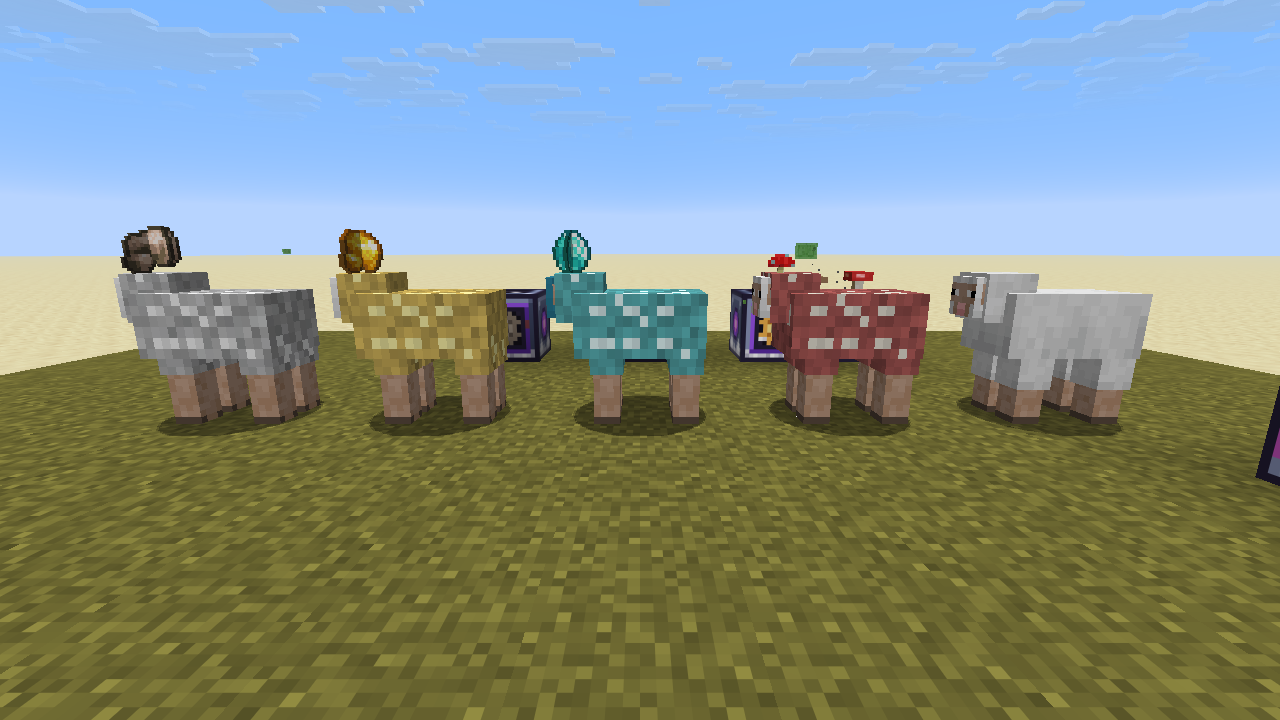
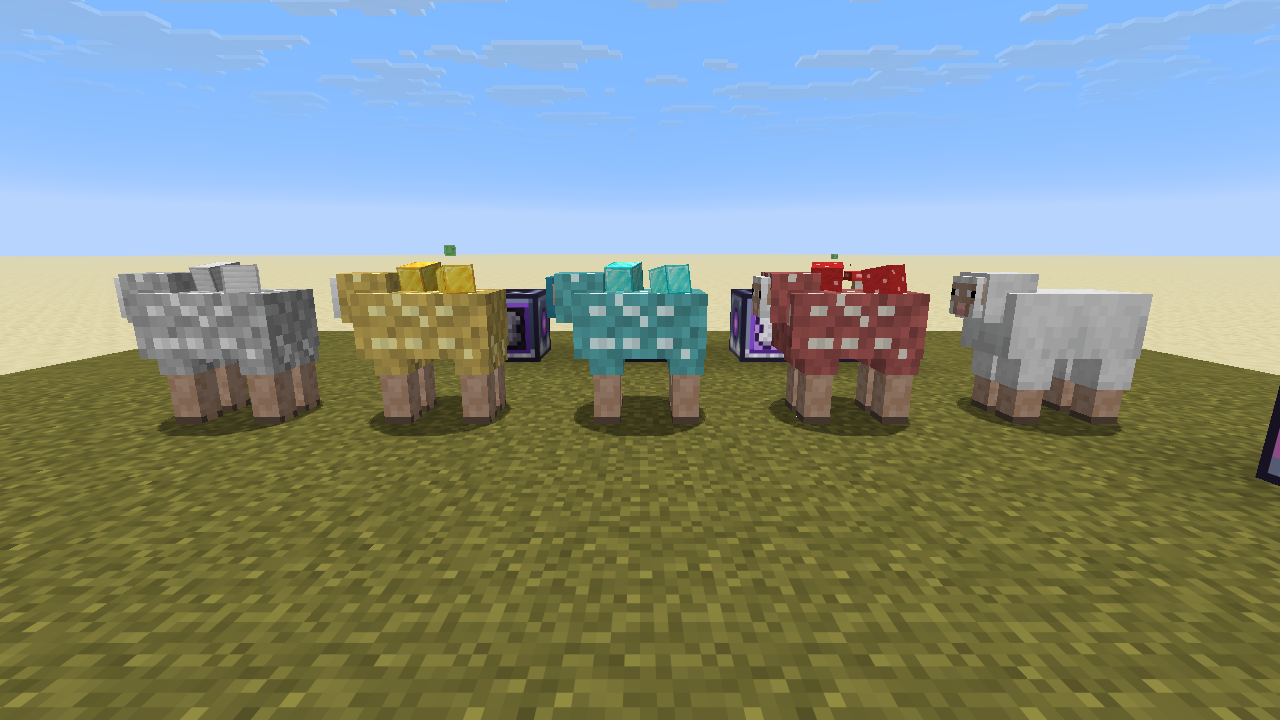
Grow small resource blocks on infused sheep again
Reverts the mooshroom-style flat items: every infused sheep shows the
original cluster of small blocks in its fleece. Since sheep are now fed
ingots and gems, the growth defaults to the storage block of the feeding
item or separator output (Iron Ingot -> Block of Iron, Lapis Lazuli ->
Block of Lapis, Redstone -> Block of Redstone), or the item itself when
it is already a block (Cobblestone, Oak Log). Netherite grows Ancient
Debris again. A new GameTest pins the block for each built-in resource.

Claude-Session: https://claude.ai/code/session_012iurxobutw9xMP3SqHHLFE

diff --git a/src/main/java/com/jax3/barelyfunctionalcontraptions/sheep/client/InfusedWoolLayer.java b/src/main/java/com/jax3/barelyfunctionalcontraptions/sheep/client/InfusedWoolLayer.java
@@ -12,7 +12,6 @@ import net.minecraft.client.model.animal.sheep.SheepModel;
 import net.minecraft.client.model.geom.EntityModelSet;
 import net.minecraft.client.model.geom.ModelLayers;
 import net.minecraft.client.renderer.SubmitNodeCollector;
-import net.minecraft.client.renderer.entity.LivingEntityRenderer;
 import net.minecraft.client.renderer.entity.RenderLayerParent;
 import net.minecraft.client.renderer.entity.layers.RenderLayer;
 import net.minecraft.client.renderer.entity.state.SheepRenderState;
@@ -29,8 +28,8 @@ import net.minecraft.world.item.ItemDisplayContext;
 import net.minecraft.world.item.ItemStack;
 
 /**
- * Renders resource-infused wool on sheep, and the resource's item growing out of it the way mushrooms grow on a
- * mooshroom.
+ * Renders resource-infused wool on sheep, with small blocks of the resource (Block of Iron, Block of Diamond...)
+ * growing out of the fleece.
  *
  * <p>A render-state modifier ({@link #extract}) runs after vanilla extraction: for infused sheep that have wool it
  * stores the colours in the render state and marks the state as sheared so the vanilla wool layer is skipped. This
@@ -51,29 +50,10 @@ public class InfusedWoolLayer extends RenderLayer<SheepRenderState, SheepModel> 
     }
 
     /**
-     * What to draw: wool colours ({@code accent} is 0 when the sparkle overlay is disabled), the resource item that
-     * sprouts from the fleece, whether it is a flat 2D item (mooshroom style) or a block (clustered blocks), and how
-     * many are showing.
+     * What to draw: wool colours ({@code accent} is 0 when the sparkle overlay is disabled), the resource block that
+     * sprouts from the fleece, and how many of them are showing.
      */
-    public record Colors(int wool, int accent, ItemStackRenderState growth, boolean flat, int growthCount) {}
-
-    // ---------------------------------------------------------------- flat 2D items: mooshroom style
-
-    /**
-     * Where flat items sprout, like a mooshroom's mushrooms: two on the back and one on the head. Positions are in
-     * sheep model space (blocks, +Y down); yaws match the mooshroom's mushrooms. Ordered so the head item stays
-     * longest as the infusion is sheared away.
-     */
-    private record Spot(boolean onHead, float x, float y, float z, float yaw) {}
-    /** Top of the fleece (body top at 6 px minus the fur's 1.75 px inflation), in blocks, +Y down. */
-    private static final float FLEECE_TOP = 4.25F / 16.0F;
-    private static final Spot[] ITEM_SPOTS = {
-            new Spot(true, 0.0F, -4.6F / 16.0F, -0.15F, -78.0F),  // head, on top of the head wool
-            new Spot(false, 0.14F, FLEECE_TOP, 0.42F, -48.0F),     // back, rear right (the mooshroom's first mushroom)
-            new Spot(false, -0.12F, FLEECE_TOP, -0.1F, -6.0F),     // back, front left (its second, 42 - 48 degrees)
-    };
-    /** Size of a flat item sprite (a mooshroom mushroom is a full block; sheep are smaller). */
-    private static final float ITEM_SCALE = 0.5F;
+    public record Colors(int wool, int accent, ItemStackRenderState growth, int growthCount) {}
 
     // ---------------------------------------------------------------- blocks: small blocks clustered in the fleece
 
@@ -105,29 +85,19 @@ public class InfusedWoolLayer extends RenderLayer<SheepRenderState, SheepModel> 
         int accent = ModConfigs.getBool(ModConfigs.CLIENT.showSheepSparkleOverlay) ? ARGB.opaque(resource.get().accentColor()) : 0;
 
         ItemStackRenderState growth = new ItemStackRenderState();
-        boolean flat = false;
         int count = 0;
         if (ModConfigs.getBool(ModConfigs.CLIENT.showResourceGrowths)) {
             ItemStack stack = resource.get().growthStack();
             if (!stack.isEmpty()) {
-                var resolver = Minecraft.getInstance().getItemModelResolver();
-                // NONE: the bare item model, one block across and centred, like the mooshroom's block model.
-                resolver.updateForTopItem(growth, stack, ItemDisplayContext.NONE, sheep.level(), sheep, sheep.getId());
-                // Flat 2D items (generated sprites) are not lit like blocks; anything block-shaped is.
-                flat = !growth.usesBlockLight();
-                if (!flat) {
-                    // Blocks keep the original look, which uses the item-frame (FIXED) transform.
-                    resolver.updateForTopItem(growth, stack, ItemDisplayContext.FIXED, sheep.level(), sheep, sheep.getId());
-                }
-                // More growths while the infusion is fresh; they drop off as it is sheared away.
-                int spots = flat ? ITEM_SPOTS.length : BLOCK_SPOTS.length;
-                int min = flat ? 1 : 2;
+                // The item-frame (FIXED) transform: a block sits as a small cube.
+                Minecraft.getInstance().getItemModelResolver().updateForTopItem(growth, stack, ItemDisplayContext.FIXED, sheep.level(), sheep, sheep.getId());
+                // More blocks while the infusion is fresh; they drop off as it is sheared away.
                 int uses = SheepInfusionEvents.getInfusion(sheep).usesRemaining();
                 int max = resource.get().effectiveInfusionUses();
-                count = uses < 0 || max <= 0 ? spots : Mth.clamp(Mth.ceil(spots * (float) uses / max), min, spots);
+                count = uses < 0 || max <= 0 ? BLOCK_SPOTS.length : Mth.clamp(Mth.ceil(BLOCK_SPOTS.length * (float) uses / max), 2, BLOCK_SPOTS.length);
             }
         }
-        state.setRenderData(INFUSED_WOOL, new Colors(wool, accent, growth, flat, count));
+        state.setRenderData(INFUSED_WOOL, new Colors(wool, accent, growth, count));
         state.isSheared = true; // hides the vanilla wool layer; the undercoat layer is unaffected
     }
 
@@ -140,33 +110,7 @@ public class InfusedWoolLayer extends RenderLayer<SheepRenderState, SheepModel> 
             coloredCutoutModelCopyLayerRender(model, ACCENT_TEXTURE, poseStack, collector, lightCoords, state, colors.accent(), 2);
         }
         if (state.isInvisible || colors.growthCount() <= 0 || colors.growth().isEmpty()) return;
-        if (colors.flat()) {
-            submitItems(poseStack, collector, lightCoords, state, colors);
-        } else {
-            submitBlocks(poseStack, collector, lightCoords, state, colors);
-        }
-    }
-
-    /**
-     * Flat items, drawn the way MushroomCowMushroomLayer draws mushrooms: each sprite twice at right angles (the
-     * mooshroom's crossed-plant look) so it reads as a solid object from every side.
-     */
-    private void submitItems(PoseStack poseStack, SubmitNodeCollector collector, int lightCoords, SheepRenderState state, Colors colors) {
-        int overlay = LivingEntityRenderer.getOverlayCoords(state, 0.0F); // red flash when hurt, as on the mooshroom
-        for (int i = 0; i < colors.growthCount(); i++) {
-            Spot spot = ITEM_SPOTS[i];
-            poseStack.pushPose();
-            getParentModel().root().translateAndRotate(poseStack);
-            if (spot.onHead()) getParentModel().root().getChild("head").translateAndRotate(poseStack);
-            // Stand the sprite on the surface: its centre sits half its height above it (+Y is down here).
-            poseStack.translate(spot.x(), spot.y() - ITEM_SCALE * 0.42F, spot.z());
-            poseStack.rotateDegrees(Axis.YP, spot.yaw());
-            poseStack.scale(-ITEM_SCALE, -ITEM_SCALE, ITEM_SCALE);
-            colors.growth().submit(poseStack, collector, lightCoords, overlay, state.outlineColor);
-            poseStack.rotateDegrees(Axis.YP, 90.0F);
-            colors.growth().submit(poseStack, collector, lightCoords, overlay, state.outlineColor);
-            poseStack.popPose();
-        }
+        submitBlocks(poseStack, collector, lightCoords, state, colors);
     }
 
     /** Blocks: little blocks of the resource sprouting from the fleece (the original look). */

diff --git a/src/main/java/com/jax3/barelyfunctionalcontraptions/sheep/resource/SheepResource.java b/src/main/java/com/jax3/barelyfunctionalcontraptions/sheep/resource/SheepResource.java
@@ -40,7 +40,7 @@ import net.minecraft.world.item.crafting.Ingredient;
  * @param woolDropCount infused wool dropped per shearing
  * @param infusionUses  number of shearings one feeding lasts (before the global multiplier)
  * @param separator     how the Mechanical Separator processes this resource's wool
- * @param growthItem    optional item shown growing out of the fleece; defaults to the separator output, then the feeding item
+ * @param growthItem    optional item shown growing out of the fleece; defaults to the storage block of the feeding item or output
  */
 public record SheepResource(
         Identifier id,
@@ -131,15 +131,44 @@ public record SheepResource(
         return Math.max(1, (int) Math.round(base * mult));
     }
 
-    /** Example item to show for the feeding input (first matching item). */
     /**
-     * The physical item that sprouts from an infused sheep's fleece, mooshroom style: {@code growth_item} if set,
-     * else the separator's primary output (Raw Iron, Diamond, Red Mushroom...), else the first feeding item.
+     * What grows out of an infused sheep's fleece, as a cluster of small blocks: {@code growth_item} if set, else the
+     * storage block of the feeding item or the separator output (Iron Ingot -> Block of Iron, Lapis Lazuli -> Block of
+     * Lapis, Raw Iron -> Block of Raw Iron...), else the feeding item or output itself if it is a block (Cobblestone,
+     * Oak Log), else the first feeding item.
      */
     public ItemStack growthStack() {
-        return growthItem.or(separator::primaryOutput).map(ItemStackTemplate::create)
-                .map(stack -> stack.copyWithCount(1))
-                .orElseGet(() -> feedingItem.items().findFirst().map(h -> new ItemStack(h)).orElse(ItemStack.EMPTY));
+        if (growthItem.isPresent()) return growthItem.get().create().copyWithCount(1);
+        Optional<Item> feeding = feedingItem.items().findFirst().map(Holder::value);
+        Optional<Item> output = separator.primaryOutput().map(t -> t.create().getItem());
+        for (Optional<Item> candidate : List.of(feeding, output)) {
+            Optional<Item> block = candidate.flatMap(SheepResource::blockForm);
+            if (block.isPresent()) return new ItemStack(block.get());
+        }
+        return feeding.or(() -> output).map(ItemStack::new).orElse(ItemStack.EMPTY);
+    }
+
+    /** Suffixes dropped when looking for an item's storage block ({@code copper_ingot -> copper_block}). */
+    private static final List<String> BLOCK_SUFFIXES = List.of("_ingot", "_gem", "_dust", "_lazuli", "_scrap", "_ball", "_shard", "_crystal");
+    private static final java.util.Map<Item, Optional<Item>> BLOCK_FORMS = new java.util.concurrent.ConcurrentHashMap<>();
+
+    /** The item's {@code <name>_block} storage block if one exists, else the item itself if it places a block. */
+    public static Optional<Item> blockForm(Item item) {
+        return BLOCK_FORMS.computeIfAbsent(item, i -> {
+            Identifier id = net.minecraft.core.registries.BuiltInRegistries.ITEM.getKey(i);
+            java.util.List<String> names = new java.util.ArrayList<>();
+            names.add(id.getPath() + "_block");
+            for (String suffix : BLOCK_SUFFIXES) {
+                if (id.getPath().endsWith(suffix)) names.add(id.getPath().substring(0, id.getPath().length() - suffix.length()) + "_block");
+            }
+            for (String name : names) {
+                Optional<Item> found = net.minecraft.core.registries.BuiltInRegistries.ITEM.getOptional(Identifier.fromNamespaceAndPath(id.getNamespace(), name));
+                if (found.isPresent() && found.get() instanceof net.minecraft.world.item.BlockItem) return found;
+            }
+            // No storage block: the item itself if it places a block (Cobblestone, Oak Log). Checked last because
+            // some dusts place blocks too (Redstone places wire) while still having a proper storage block.
+            return i instanceof net.minecraft.world.item.BlockItem ? Optional.of(i) : Optional.empty();
+        });
     }
 
     public ItemStack exampleFeedingStack() {

diff --git a/src/main/java/com/jax3/barelyfunctionalcontraptions/sheep/gametest/ModGameTests.java b/src/main/java/com/jax3/barelyfunctionalcontraptions/sheep/gametest/ModGameTests.java
@@ -108,6 +108,7 @@ public final class ModGameTests {
         TESTS.put("fluid_reservoir_needs_infinite_source", ModGameTests::reservoirNeedsInfiniteSource);
         TESTS.put("fluid_reservoir_buckets_and_pipes", ModGameTests::reservoirBucketsAndPipes);
         TESTS.put("fluid_reservoir_config_rate_and_size", ModGameTests::reservoirConfig);
+        TESTS.put("infused_sheep_grow_resource_blocks", ModGameTests::growthBlocks);
         RELOAD_TESTS.put("generated_resource_keeps_infusion", ModGameTests::generatedResourceKeepsInfusion);
         TESTS.forEach((name, fn) -> FUNCTIONS.register(name, () -> fn));
         RELOAD_TESTS.forEach((name, fn) -> FUNCTIONS.register(name, () -> fn));
@@ -1097,6 +1098,31 @@ public final class ModGameTests {
         } finally {
             ModConfigs.SERVER.reservoirWaterPerSecond.set(oldRate);
             ModConfigs.SERVER.reservoirCapacity.set(oldCapacity);
+        }
+        h.succeed();
+    }
+
+    /** Infused sheep show blocks of their resource in the fleece, not flat items. */
+    private static void growthBlocks(GameTestHelper h) {
+        var registry = SheepResourceRegistry.server();
+        java.util.Map<String, net.minecraft.world.item.Item> expected = java.util.Map.ofEntries(
+                java.util.Map.<String, net.minecraft.world.item.Item>entry("iron", Items.IRON_BLOCK), java.util.Map.<String, net.minecraft.world.item.Item>entry("gold", Items.GOLD_BLOCK),
+                java.util.Map.<String, net.minecraft.world.item.Item>entry("copper", net.minecraft.core.registries.BuiltInRegistries.ITEM.getValue(Identifier.withDefaultNamespace("copper_block"))), java.util.Map.<String, net.minecraft.world.item.Item>entry("diamond", Items.DIAMOND_BLOCK),
+                java.util.Map.<String, net.minecraft.world.item.Item>entry("emerald", Items.EMERALD_BLOCK), java.util.Map.<String, net.minecraft.world.item.Item>entry("redstone", Items.REDSTONE_BLOCK),
+                java.util.Map.<String, net.minecraft.world.item.Item>entry("lapis", Items.LAPIS_BLOCK), java.util.Map.<String, net.minecraft.world.item.Item>entry("coal", Items.COAL_BLOCK),
+                java.util.Map.<String, net.minecraft.world.item.Item>entry("netherite", Items.ANCIENT_DEBRIS), java.util.Map.<String, net.minecraft.world.item.Item>entry("stone", Items.COBBLESTONE),
+                java.util.Map.<String, net.minecraft.world.item.Item>entry("wood", Items.OAK_LOG), java.util.Map.<String, net.minecraft.world.item.Item>entry("quartz", Items.QUARTZ_BLOCK),
+                java.util.Map.<String, net.minecraft.world.item.Item>entry("red_mushroom", Items.RED_MUSHROOM_BLOCK), java.util.Map.<String, net.minecraft.world.item.Item>entry("brown_mushroom", Items.BROWN_MUSHROOM_BLOCK));
+        expected.forEach((name, item) -> {
+            ItemStack growth = registry.byId(ResourcefulSheep.id(name)).orElseThrow().growthStack();
+            h.assertTrue(growth.is(item), name + " should grow " + item + ", grows " + growth);
+        });
+        for (SheepResource resource : registry.all()) {
+            ItemStack growth = resource.growthStack();
+            if (!growth.isEmpty() && !(growth.getItem() instanceof net.minecraft.world.item.BlockItem)) {
+                // Only allowed when the resource's item has no block form at all.
+                h.assertTrue(SheepResource.blockForm(growth.getItem()).isEmpty(), resource.id() + " grows a flat item " + growth);
+            }
         }
         h.succeed();
     }

diff --git a/tools/sheep/generate_data.py b/tools/sheep/generate_data.py
@@ -43,7 +43,7 @@ RESOURCES = {
                   wool="#2F55B5", accent="#9DB8FF", energy=12000, ticks=80),
     "coal": dict(display="Coal", feed="minecraft:coal", out="minecraft:coal", cat="material", uses=9,
                  wool="#3A3A3E", accent="#8C8C96", energy=8000, ticks=80),
-    "netherite": dict(display="Netherite", feed="minecraft:netherite_scrap", out="minecraft:netherite_scrap", cat="material", uses=1,
+    "netherite": dict(display="Netherite", growth="minecraft:ancient_debris", feed="minecraft:netherite_scrap", out="minecraft:netherite_scrap", cat="material", uses=1,
                       wool="#4A3E44", accent="#9B6FB0", energy=80000, ticks=200),
     "stone": dict(display="Stone", feed="minecraft:cobblestone", out="minecraft:cobblestone", cat="material", uses=1,
                   wool="#8E8E8E", accent="#B5B5B5", energy=4000, ticks=40),

diff --git a/README.md b/README.md
@@ -148,7 +148,7 @@ Adding a modded fuel takes one line in `config/barelyfunctionalcontraptions-myce
 Right-click an **adult** sheep while holding a resource, for example an **Iron Ingot**.
 
 - One item is consumed (this is configurable). You'll see coloured particles and hear a chime.
-- The sheep's fleece takes on the resource colour with glinting strands, and **the resource itself grows out of it the way mushrooms grow on a mooshroom**: two on its back and one on its head (Raw Iron on an iron sheep, Diamonds on a diamond sheep, Red Mushrooms on a red mushroom sheep). This applies to flat 2D items, which are drawn as crossed sprites like a mooshroom's mushrooms; they drop off one by one as the infusion is used up, and the head one goes last. Block-shaped resources (Cobblestone on a stone sheep, Oak Log on a wood sheep) keep the original look instead: a cluster of small blocks sunk into the fleece that shrinks as the infusion is sheared away.
+- The sheep's fleece takes on the resource colour with glinting strands, and **small blocks of the resource grow out of it**: Blocks of Iron on an iron sheep, Blocks of Diamond on a diamond sheep, Red Mushroom Blocks on a red mushroom sheep, Cobblestone on a stone sheep. The cluster shrinks as the infusion is sheared away. The block is the resource's storage block (`<name>_block`, found from the feeding item or the separator output), or the item itself when it is already a block (Oak Log). A data pack can choose another with `growth_item`.
 - Its dye colour still shows through slightly, so a blue diamond sheep looks different from a white one.
 - **Each infusion lasts 100 shearings by default**, whatever the resource (`infusionUsesOverride` in the config). Set that to `-1` to use each resource's own count instead: iron, gold, copper, redstone, lapis and coal last **9** shearings, and diamond, emerald, netherite scrap, cobblestone, oak log, quartz and the mushrooms last **1** or **3**.
 - Feeding an item that isn't a resource does nothing special, so wheat breeding, dyes and so on work as normal.
@@ -380,7 +380,7 @@ Changes to `waterPerSecond` and `capacity` apply to reservoirs that are already 
 |---|---|
 | `ambientParticles` | Particles around infused sheep |
 | `dyeTintStrength` | How strongly the dye colour shows through infused wool |
-| `showResourceGrowths` | The resource growing out of infused fleece (2D items mooshroom style, blocks as small clusters) |
+| `showResourceGrowths` | Small blocks of the resource growing out of infused fleece |
 | `showSheepSparkleOverlay` | The glinting overlay on infused fleece |
 | `detailedWoolTooltips` | Always show separator details in wool tooltips |
 | `detailedMachineTooltips` | Extra detail in the separator GUI tooltips |
@@ -417,7 +417,7 @@ Definitions live in `data/<namespace>/barelyfunctionalcontraptions/sheep_resourc
     "energy_cost": 20000,                    // total FE; default: config
     "processing_ticks": 100                  // default: config
   },
-  "growth_item": "mekanism:raw_tin"          // optional: item shown growing out of the fleece; default: the separator output, then the fed item
+  "growth_item": "mekanism:raw_tin"          // optional: block shown growing out of the fleece; default: the storage block of the fed item or output
 }
 ```
 

diff --git a/TESTING.md b/TESTING.md
@@ -8,7 +8,7 @@ Environment for the results below: Minecraft 26.3, NeoForge 26.3.0.101, JEI 31.1
 |---|---|---|
 | Build | `./gradlew build` | ✅ BUILD SUCCESSFUL, produces `build/libs/barelyfunctionalcontraptions-1.0.0.jar` |
 | Unit tests | `./gradlew test` | ✅ 36/36 passed (31 Mycelial Power + 5 Resourceful Sheep) |
-| In-world GameTests | `./gradlew runGameTestServer` | ✅ **All 58 required tests passed** on a dedicated-server GameTest server: 15 Mycelial Power, 36 Resourceful Sheep, 6 integration, 1 NeoForge built-in |
+| In-world GameTests | `./gradlew runGameTestServer` | ✅ **All 59 required tests passed** on a dedicated-server GameTest server: 15 Mycelial Power, 37 Resourceful Sheep, 6 integration, 1 NeoForge built-in |
 | Real client | `./gradlew runClient -PscreenshotHarness` | ✅ Loads with JEI and Jade, with no errors or warnings from the mod in the log. The 16 screenshots are in [`docs/screenshots/`](docs/screenshots) |
 
 ### Integration GameTests (`com.jax3.barelyfunctionalcontraptions.gametest.IntegrationGameTests`)
@@ -75,7 +75,7 @@ With the default `[generator]` config: Stone Bricks, Raw Iron and Bread are allo
 ### What the real client run showed
 * One mod entry, **Barely Functional Contraptions 1.0.0**, with one config button that lists all four config files.
 * One creative tab that holds the generator, wrench, separator, creative generator and every wool type, including the two mushroom wools.
-* Infused sheep with a flat 2D resource grow it mooshroom style, with two crossed sprites on the back and one on the head: Raw Iron, Raw Gold, Diamonds and Red Mushrooms. A block-shaped resource keeps the original cluster of small blocks in the fleece (checked with Oak Log on a wood sheep) (`01_world_sheep.png`, `07_sheep_closeup.png`).
+* Infused sheep grow a cluster of small blocks of their resource in the fleece again (the mooshroom-style flat items were reverted): Blocks of Iron, Gold and Diamond, and Red Mushroom Blocks (`01_world_sheep.png`, `07_sheep_closeup.png`). `infused_sheep_grow_resource_blocks` checks the block each built-in resource grows (Iron Ingot → Block of Iron, Lapis Lazuli → Block of Lapis, Redstone → Block of Redstone rather than the wire, Netherite → Ancient Debris, Cobblestone and Oak Log as themselves), and that no loaded resource grows a flat item when a block form exists.
 * The Mycelial Generator GUI shows **+250 FE/t generated, 200 FE/t out**: it is feeding the separator next to it (`11_generator_gui.png`).
 * JEI shows the generator fuel category plus the infusion and separation categories, which now include the mushroom resources. Jade shows sheep and separator info (`09`, `10`).
 
